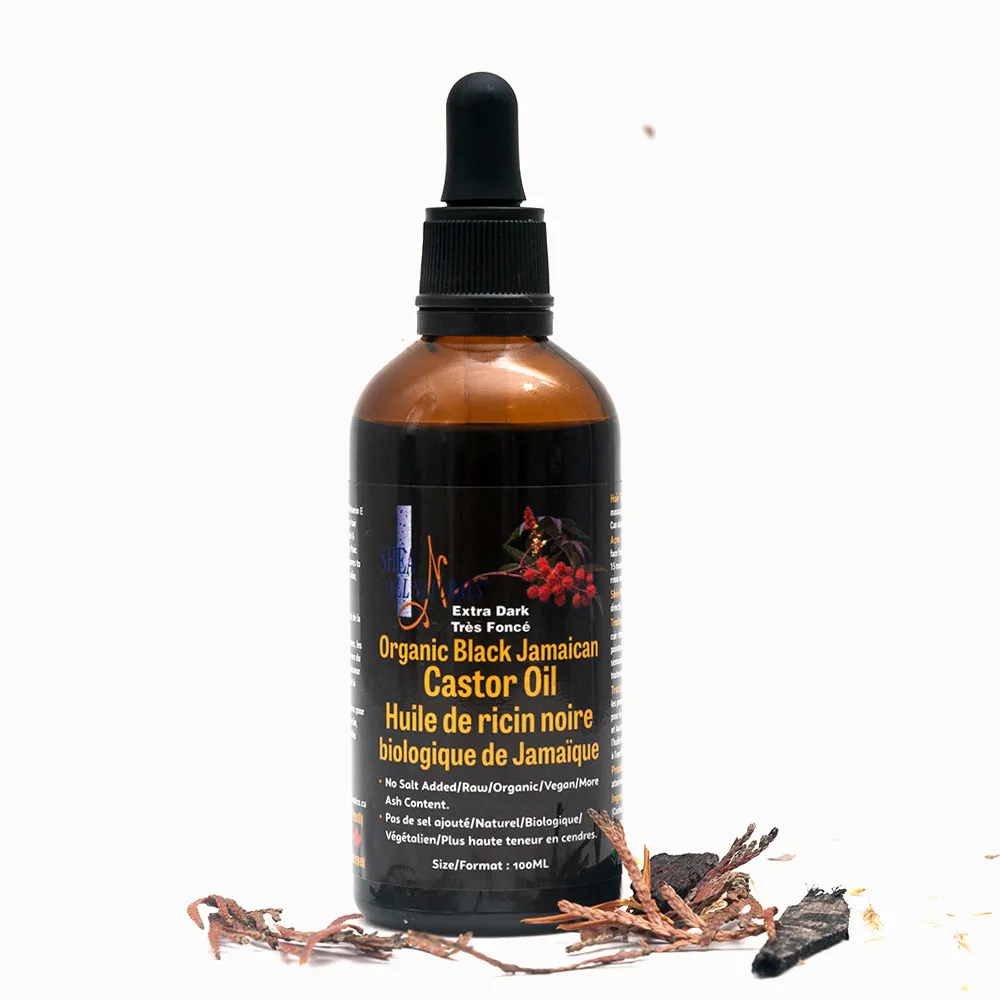
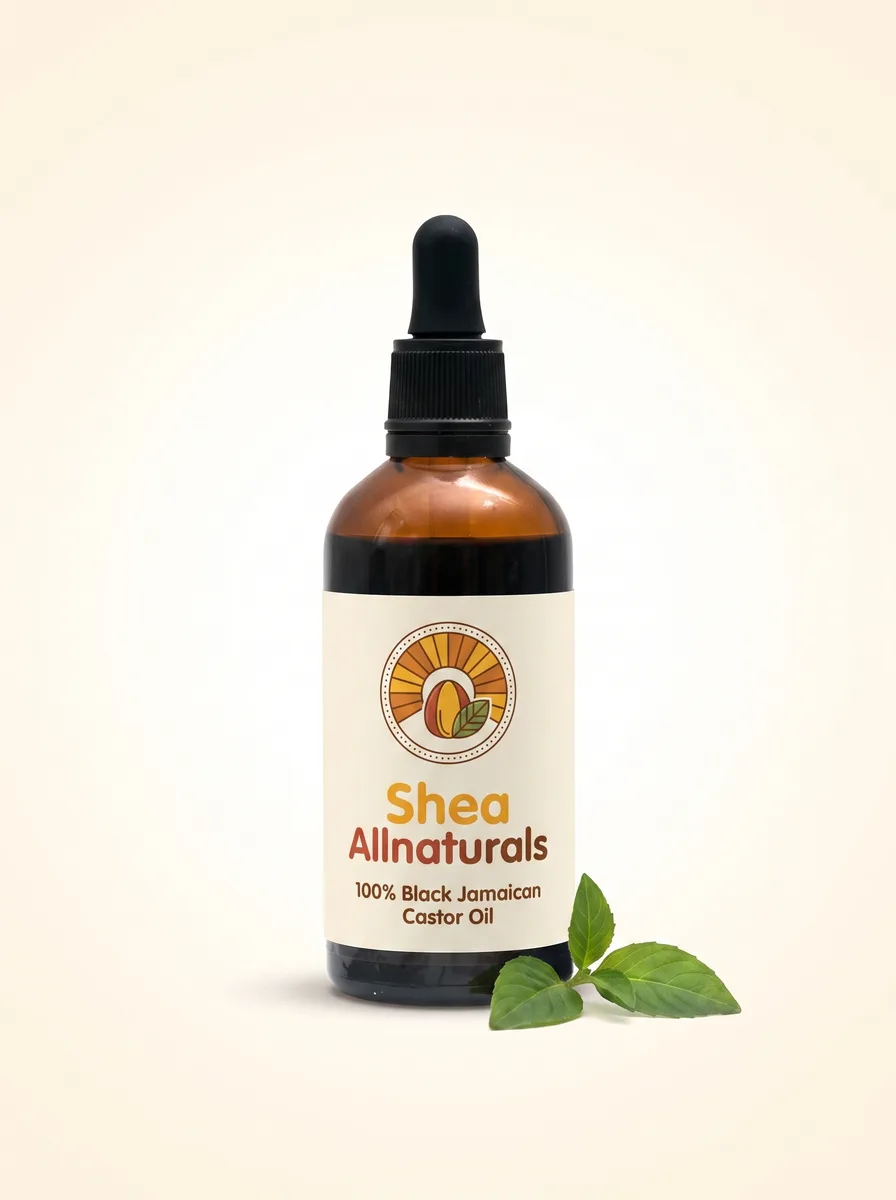
feat: install re-staged Shea-seal product imagery, diversify featured grid, polish hero composition + poster

diff --git a/scripts/install-restaged.ts b/scripts/install-restaged.ts
@@ -1,0 +1,190 @@
+/**
+ * install-restaged.ts
+ *
+ * For each {handle, url} in wave1-white-urls.json:
+ *   1. Download image from CloudFront URL to a temp file.
+ *   2. Resize to max 1200px long edge (no upscale), webp quality 82.
+ *   3. Back up existing primary: public/media/<handle>/01.webp → 00-orig.webp
+ *      (only if 00-orig.webp doesn't already exist).
+ *   4. Overwrite public/media/<handle>/01.webp with the optimized re-staged image.
+ *   5. Verify output is a valid WEBP (RIFF....WEBP header) and non-trivial size.
+ *
+ * Run: npx tsx scripts/install-restaged.ts
+ */
+
+import fs from "fs";
+import path from "path";
+import os from "os";
+import https from "https";
+import http from "http";
+import sharp from "sharp";
+
+const ROOT = path.resolve(__dirname, "..");
+const URLS_PATH = path.join(ROOT, "scripts/wave1-white-urls.json");
+const MEDIA_BASE = path.join(ROOT, "public/media");
+
+type UrlMap = Record<string, string>;
+
+function downloadToTemp(url: string, destPath: string): Promise<void> {
+  return new Promise((resolve, reject) => {
+    const file = fs.createWriteStream(destPath);
+    const protocol = url.startsWith("https") ? https : http;
+
+    function doRequest(targetUrl: string, redirectCount = 0): void {
+      if (redirectCount > 5) {
+        reject(new Error("Too many redirects"));
+        return;
+      }
+      protocol.get(targetUrl, (res) => {
+        if (res.statusCode && res.statusCode >= 300 && res.statusCode < 400 && res.headers.location) {
+          doRequest(res.headers.location, redirectCount + 1);
+          return;
+        }
+        if (res.statusCode !== 200) {
+          reject(new Error(`HTTP ${res.statusCode} for ${targetUrl}`));
+          return;
+        }
+        res.pipe(file);
+        file.on("finish", () => {
+          file.close();
+          resolve();
+        });
+        file.on("error", reject);
+      }).on("error", reject);
+    }
+
+    doRequest(url);
+  });
+}
+
+/** Verify output file starts with RIFF....WEBP */
+function isValidWebP(filePath: string): boolean {
+  try {
+    const buf = Buffer.alloc(12);
+    const fd = fs.openSync(filePath, "r");
+    fs.readSync(fd, buf, 0, 12, 0);
+    fs.closeSync(fd);
+    // bytes 0-3: "RIFF", bytes 8-11: "WEBP"
+    return (
+      buf.toString("ascii", 0, 4) === "RIFF" &&
+      buf.toString("ascii", 8, 12) === "WEBP"
+    );
+  } catch {
+    return false;
+  }
+}
+
+function sizeKB(filePath: string): number {
+  return Math.round(fs.statSync(filePath).size / 1024);
+}
+
+async function main() {
+  const urlMap: UrlMap = JSON.parse(fs.readFileSync(URLS_PATH, "utf-8"));
+  const handles = Object.keys(urlMap);
+
+  console.log(`Installing ${handles.length} re-staged images...\n`);
+
+  let installed = 0;
+  let totalBytesAfter = 0;
+  const errors: string[] = [];
+
+  for (const handle of handles) {
+    const url = urlMap[handle];
+    const outDir = path.join(MEDIA_BASE, handle);
+    const outPath = path.join(outDir, "01.webp");
+    const origPath = path.join(outDir, "00-orig.webp");
+
+    // Ensure output directory exists (it should already from catalog seeding)
+    fs.mkdirSync(outDir, { recursive: true });
+
+    // 1. Download to temp file
+    const tmpPath = path.join(os.tmpdir(), `restage-${handle}-${Date.now()}.tmp`);
+    try {
+      process.stdout.write(`  [${handle}] Downloading...`);
+      await downloadToTemp(url, tmpPath);
+      process.stdout.write(" done. ");
+    } catch (err) {
+      console.error(`\n  ERROR downloading ${handle}: ${err}`);
+      errors.push(handle);
+      try { fs.unlinkSync(tmpPath); } catch { /* ignore */ }
+      continue;
+    }
+
+    // 2. Optimize with sharp: resize to max 1200px long edge, webp quality 82
+    const tmpOptPath = path.join(os.tmpdir(), `restage-${handle}-opt-${Date.now()}.webp`);
+    try {
+      const img = sharp(tmpPath);
+      const meta = await img.metadata();
+      const w = meta.width ?? 0;
+      const h = meta.height ?? 0;
+      const longEdge = Math.max(w, h);
+
+      let pipeline = img;
+      if (longEdge > 1200) {
+        const isLandscape = w >= h;
+        pipeline = img.resize(
+          isLandscape ? 1200 : undefined,
+          isLandscape ? undefined : 1200,
+          { withoutEnlargement: true }
+        );
+      }
+
+      await pipeline.webp({ quality: 82 }).toFile(tmpOptPath);
+      process.stdout.write(`Optimized (${w}x${h} → max 1200px). `);
+    } catch (err) {
+      console.error(`\n  ERROR optimizing ${handle}: ${err}`);
+      errors.push(handle);
+      try { fs.unlinkSync(tmpPath); } catch { /* ignore */ }
+      try { fs.unlinkSync(tmpOptPath); } catch { /* ignore */ }
+      continue;
+    } finally {
+      try { fs.unlinkSync(tmpPath); } catch { /* ignore */ }
+    }
+
+    // 3. Back up existing primary if not already backed up
+    if (fs.existsSync(outPath) && !fs.existsSync(origPath)) {
+      fs.copyFileSync(outPath, origPath);
+      process.stdout.write(`Backed up 01→00-orig. `);
+    } else if (fs.existsSync(origPath)) {
+      process.stdout.write(`(backup exists, skipping). `);
+    }
+
+    // 4. Overwrite 01.webp with optimized re-staged image
+    fs.copyFileSync(tmpOptPath, outPath);
+    try { fs.unlinkSync(tmpOptPath); } catch { /* ignore */ }
+
+    // 5. Verify output
+    const valid = isValidWebP(outPath);
+    const kb = sizeKB(outPath);
+    const trivial = kb < 5; // < 5KB is suspiciously small
+
+    if (!valid) {
+      console.error(`\n  ERROR: ${handle}/01.webp has invalid WEBP header!`);
+      errors.push(handle);
+      continue;
+    }
+    if (trivial) {
+      console.warn(`\n  WARN: ${handle}/01.webp is only ${kb}KB (unusually small)`);
+    }
+
+    totalBytesAfter += fs.statSync(outPath).size;
+    installed++;
+    console.log(`Installed. [${kb}KB, WEBP OK]`);
+  }
+
+  // Summary
+  console.log("\n─────────────────────────────────────────────");
+  console.log(`Installed: ${installed} / ${handles.length}`);
+  console.log(`Total size of installed files: ${Math.round(totalBytesAfter / 1024)}KB`);
+  if (errors.length > 0) {
+    console.error(`\nFailed handles (${errors.length}): ${errors.join(", ")}`);
+    process.exit(1);
+  } else {
+    console.log("\nAll re-staged images installed successfully.");
+  }
+}
+
+main().catch((err) => {
+  console.error(err);
+  process.exit(1);
+});

diff --git a/app/page.tsx b/app/page.tsx
@@ -3,13 +3,13 @@
  *
  * Server Component — fetches catalog data, renders three sections:
  *   1. Hero3D   — scroll-scrubbed 3D peppermint-oil moment (unchanged)
- *   2. Featured — "Find your essentials" product grid (8 retail cards)
+ *   2. Featured — "Find your essentials" product grid (12 re-staged cards)
  *   3. Homeland — cinematic dark espresso band: "Skincare with a homeland."
  *
- * Data strategy:
- *   - Fetch all products and the bulk-wholesale collection in parallel.
- *   - Exclude bulk handles, prefer products with local images and price < $60.
- *   - Take the first 8 that pass the filter.
+ * Data strategy (updated wave-1):
+ *   - Fetch the 12 re-staged handles by name in the prescribed order.
+ *   - Promise.all so fetches are parallel; filter out any null results.
+ *   - Order is exact (oils, butters, jars, soap diversity).
  *
  * Never blue. Honors prefers-reduced-motion (RevealText / ProductCard handle it).
  */
@@ -23,35 +23,38 @@ import { RevealText } from "@/components/motion/RevealText";
 import { store } from "@/lib/shopify";
 import type { Product } from "@/lib/shopify/types";
 
+// ── Featured set — wave-1 re-staged handles, exact order ─────────────────────
+// Diverse mix: oils, butters, jars, soap. All 12 have clean cream re-staged imagery.
+const FEATURED_HANDLES = [
+  "peppermint-essential-oil",
+  "100-organic-argan-oil-2",
+  "cocoa-shea-butter",
+  "100-pure-shea-butter-2",
+  "argan-oil-body-butter",
+  "all-over-oil",
+  "100-black-jamaican-castor-oil",
+  "shea-butter-massage-oil",
+  "black-soap-facial-wash",
+  "100-sweet-almond-oil",
+  "argan-oil-shampoo",
+  "shea-butter-hair-scalp-oil-2",
+] as const;
+
 // ── Data fetching ─────────────────────────────────────────────────────────────
 
-async function getFeaturedRetailProducts(count = 8): Promise<Product[]> {
-  // Fetch all products and bulk-wholesale collection simultaneously
-  const [allProducts, bulkCollection] = await Promise.all([
-    store.getProducts(),
-    store.getCollection("bulk-wholesale"),
-  ]);
-
-  const bulkHandles = new Set(bulkCollection?.productHandles ?? []);
-
-  // Retail filter:
-  //   • Not in bulk-wholesale collection
-  //   • Has at least one image (local WebP path)
-  //   • Min variant price under $60
-  const retail = allProducts.filter((p) => {
-    if (bulkHandles.has(p.handle)) return false;
-    if (p.images.length === 0) return false;
-    if (p.priceRange.min.amount >= 60) return false;
-    return true;
-  });
-
-  return retail.slice(0, count);
+async function getFeaturedProducts(): Promise<Product[]> {
+  // Fetch the exact 12 re-staged products in parallel, preserve order.
+  const results = await Promise.all(
+    FEATURED_HANDLES.map((h) => store.getProduct(h))
+  );
+  // Filter out any null/undefined (graceful degradation if a handle is missing).
+  return results.filter((p): p is Product => p != null);
 }
 
 // ── Page ──────────────────────────────────────────────────────────────────────
 
 export default async function Home() {
-  const featured = await getFeaturedRetailProducts(8);
+  const featured = await getFeaturedProducts();
 
   return (
     <>
@@ -109,7 +112,7 @@ function FeaturedSection({ products }: { products: Product[] }) {
           </Link>
         </div>
 
-        {/* Product grid — 2 cols → 3 → 4 */}
+        {/* Product grid — 2 cols → 3 → 4; 12 cards = 3 clean rows of 4 */}
         <div className="grid grid-cols-2 sm:grid-cols-3 lg:grid-cols-4 gap-4 sm:gap-5 lg:gap-6">
           {products.map((product, i) => (
             <ProductCard

diff --git a/components/three/HeroScene.tsx b/components/three/HeroScene.tsx
@@ -114,8 +114,16 @@ function Bottle({ scrollYProgress }: BottleProps) {
       const scl = baseScale * revealScale;
       outer.current.scale.setScalar(scl);
 
-      // Dolly: move the whole rig forward (+z toward camera) and lift slightly.
-      outer.current.position.z = s.dolly * 1.1;
+      // Right-lane offset: shift bottle into the right half of the hero so
+      // it clears the left-aligned headline CTA card at all scroll positions.
+      // +1.5 world units right (at fov=38, camera z=6 → world width ≈ 4.3 at
+      // the model plane, so +1.5 is ~35% right of center — comfortably in the
+      // right lane without clipping the edge).
+      outer.current.position.x = 1.5;
+
+      // Dolly: gentle ease forward — cut from 1.1 to 0.45 so the bottle
+      // stays tasteful and never balloons over the left-side headline.
+      outer.current.position.z = s.dolly * 0.45;
       // Idle drift — a gentle bob + sway so it breathes at rest.
       outer.current.position.y =
         Math.sin(t * 0.6) * 0.04 + s.dolly * 0.05;

diff --git a/components/three/Hero3D.tsx b/components/three/Hero3D.tsx
@@ -92,10 +92,10 @@ export function Hero3D() {
           aria-hidden
           className="absolute inset-0 bg-[radial-gradient(120%_90%_at_50%_42%,#FBF4E6_0%,#F5ECDA_52%,#EAD9BC_100%)]"
         />
-        {/* Soft golden bloom centered on the product. */}
+        {/* Soft golden bloom — shifted right to follow the bottle's new right-lane position. */}
         <div
           aria-hidden
-          className="absolute inset-0 bg-[radial-gradient(45%_42%_at_55%_55%,rgba(235,165,44,0.18)_0%,rgba(235,165,44,0)_70%)]"
+          className="absolute inset-0 bg-[radial-gradient(45%_42%_at_72%_55%,rgba(235,165,44,0.18)_0%,rgba(235,165,44,0)_70%)]"
         />
 
         {/* 3D canvas (client-only chunk). Absolutely positioned full-bleed. */}
